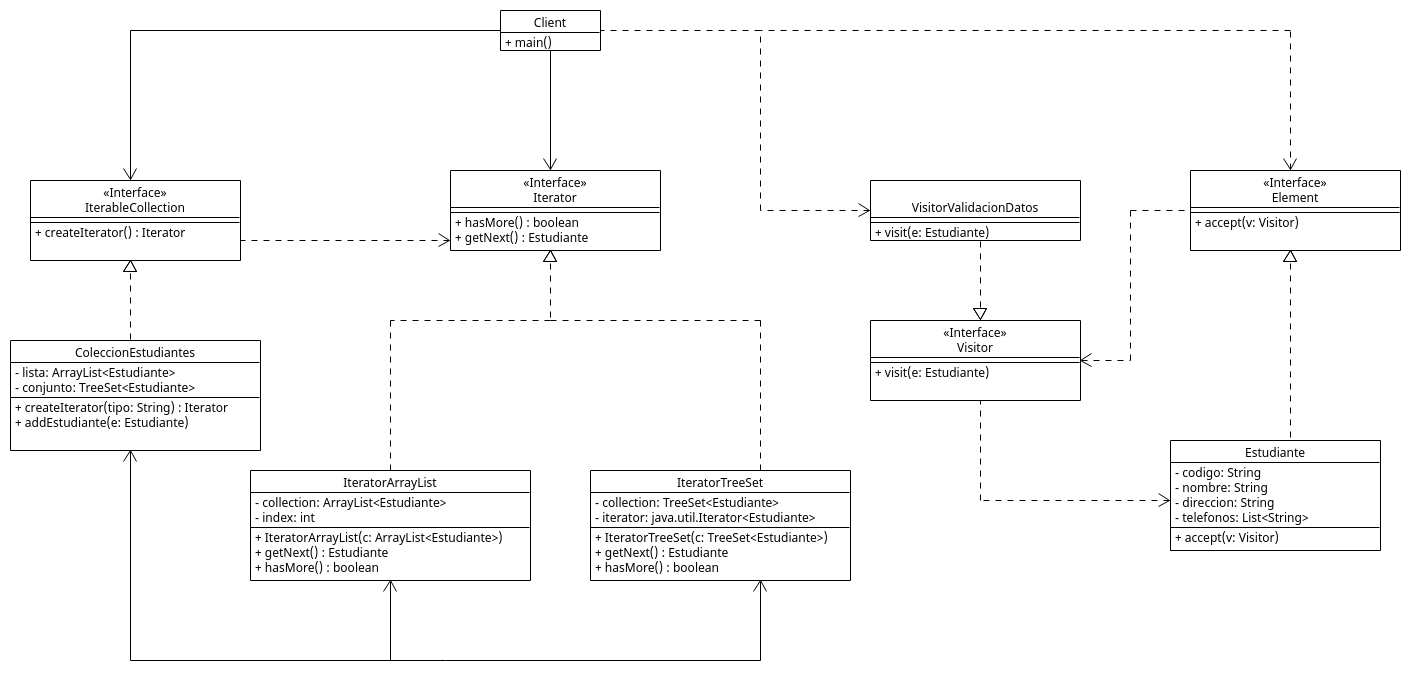
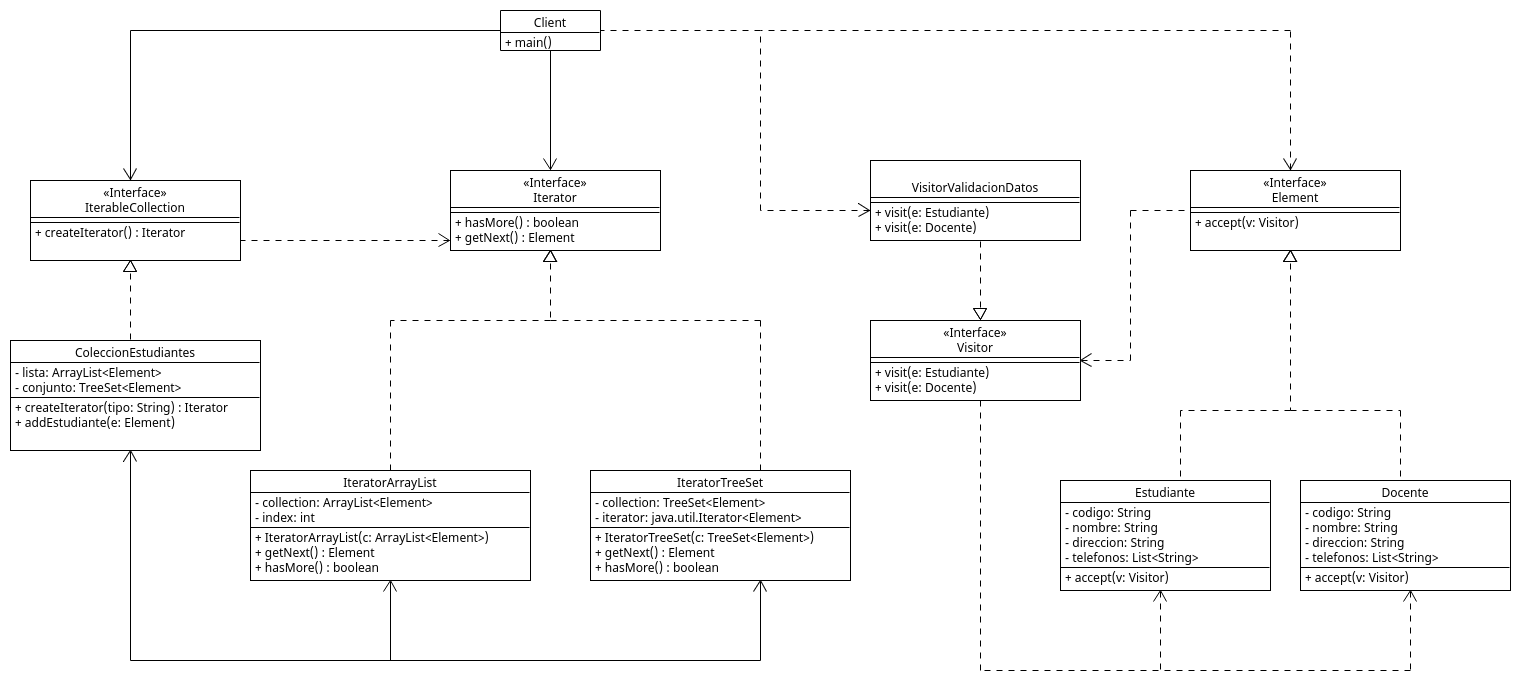
Docente

diff --git a/src/app/Client.java b/src/app/Client.java
@@ -1,6 +1,7 @@
 package app;
 
 import coleccion.ColeccionEstudiantes;
+import dominio.Docente;
 import dominio.Estudiante;
 import iterator.Iterador;
 import visitor.Element;
@@ -15,19 +16,21 @@ public class Client {
         ColeccionEstudiantes coleccion = new ColeccionEstudiantes();
         Visitor validador = new VisitorValidacionDatos();
 
-        // Estudiantes precargados
+        // Estudiantes y docentes precargados
         coleccion.agregarEstudiante(new Estudiante("001", "Carlos Gómez", "Calle 123", Arrays.asList("3001234567")));
-        coleccion.agregarEstudiante(new Estudiante("002", "", "Calle 456", Arrays.asList("3017654321"))); // sin nombre
-        coleccion.agregarEstudiante(new Estudiante("003", "Ana Ruiz", "", Arrays.asList())); // sin dirección ni
-                                                                                             // teléfonos
+        coleccion.agregarEstudiante(new Estudiante("002", "", "Calle 456", Arrays.asList("3017654321")));
+        coleccion.agregarEstudiante(new Estudiante("003", "Ana Ruiz", "", Arrays.asList()));
         coleccion.agregarEstudiante(new Estudiante("004", "Luis Pérez", "Calle 789", Arrays.asList("3101112233")));
+        coleccion.agregarEstudiante(new Docente("5678", "Prof. Ramírez", "Cra 45", Arrays.asList("3129876543")));
+        coleccion.agregarEstudiante(new Docente("12345", "Prof. López", "Calle 789", Arrays.asList("3112223344")));
 
         boolean salir = false;
 
         while (!salir) {
+            System.out.println("\n[✔ Sistema listo: puede registrar y validar estudiantes o docentes]");
             System.out.println("\n--- MENÚ PRINCIPAL ---");
-            System.out.println("1. Ver estudiantes (validar datos)");
-            System.out.println("2. Agregar estudiante");
+            System.out.println("1. Ver estudiantes y docentes (validar datos)");
+            System.out.println("2. Agregar estudiante o docente");
             System.out.println("3. Salir");
             System.out.print("Seleccione una opción: ");
             String opcion = scanner.nextLine().trim();
@@ -42,18 +45,22 @@ public class Client {
                     }
 
                     Iterador iterador = coleccion.createIterator(tipo);
-                    System.out.println("\nRecorriendo estudiantes por tipo: " + tipo.toUpperCase());
+                    System.out.println("\nRecorriendo registros por tipo: " + tipo.toUpperCase());
                     System.out.println("==========================================");
 
                     while (iterador.hasMore()) {
-                        Element estudiante = iterador.getNext();
-                        estudiante.accept(validador);
+                        Element persona = iterador.getNext();
+                        persona.accept(validador);
                         System.out.println("-----");
                     }
                     break;
 
                 case "2":
-                    System.out.println("Ingrese los datos del nuevo estudiante:");
+                    System.out.println("¿Qué desea agregar? (estudiante/docente): ");
+                    String tipoPersona = scanner.nextLine().trim().toLowerCase();
+
+                    System.out.println("Ingrese los datos:");
+
                     System.out.print("Código: ");
                     String codigo = scanner.nextLine();
 
@@ -80,14 +87,24 @@ public class Client {
                         }
                     }
 
-                    // Validación de campos
                     if (codigo.isEmpty() || nombre.isEmpty() || direccion.isEmpty() || telefonos.isEmpty()) {
-                        System.out.println(
-                                "\n**No se puede agregar el estudiante. Todos los campos deben estar completos.**\n");
+                        System.out.println("❌ Todos los campos deben estar completos.");
+                        break;
+                    }
+
+                    if (tipoPersona.equals("estudiante")) {
+                        coleccion.agregarEstudiante(new Estudiante(codigo, nombre, direccion, telefonos));
+                        System.out.println("✅ Estudiante agregado.");
+                    } else if (tipoPersona.equals("docente")) {
+                        if (codigo.length() > 4) {
+                            System.out.println(
+                                    "❌ No se puede registrar el docente. El código debe tener máximo 4 dígitos.");
+                            break;
+                        }
+                        coleccion.agregarEstudiante(new Docente(codigo, nombre, direccion, telefonos));
+                        System.out.println("✅ Docente agregado.");
                     } else {
-                        Estudiante nuevo = new Estudiante(codigo, nombre, direccion, telefonos);
-                        coleccion.agregarEstudiante(nuevo);
-                        System.out.println("\n****Estudiante agregado exitosamente.***\n");
+                        System.out.println("❌ Tipo de persona no reconocido.");
                     }
                     break;
 

diff --git a/src/visitor/VisitorValidacionDatos.java b/src/visitor/VisitorValidacionDatos.java
@@ -1,6 +1,7 @@
 package visitor;
 
 import dominio.Estudiante;
+import dominio.Docente;
 
 public class VisitorValidacionDatos implements Visitor {
 
@@ -27,6 +28,38 @@ public class VisitorValidacionDatos implements Visitor {
 
         if (!datosIncompletos) {
             System.out.println("✅ Estudiante " + estudiante.getNombre() + " tiene sus datos completos.");
+        }
+    }
+
+    @Override
+    public void visit(Docente docente) {
+        boolean datosIncompletos = false;
+
+        if (docente.getCodigo() == null || docente.getCodigo().isEmpty()) {
+            System.out.println("⚠ Docente sin código.");
+            datosIncompletos = true;
+        }
+        if (docente.getNombre() == null || docente.getNombre().isEmpty()) {
+            System.out.println("⚠ Docente sin nombre.");
+            datosIncompletos = true;
+        }
+        if (docente.getDireccion() == null || docente.getDireccion().isEmpty()) {
+            System.out.println("⚠ Docente sin dirección.");
+            datosIncompletos = true;
+        }
+        if (docente.getTelefonos() == null || docente.getTelefonos().isEmpty()) {
+            System.out.println("⚠ Docente sin teléfonos.");
+            datosIncompletos = true;
+        }
+
+        // Validar longitud del código
+        if (docente.getCodigo() != null && docente.getCodigo().length() > 4) {
+            System.out.println("⚠ Código de docente excede 4 dígitos.");
+            datosIncompletos = true;
+        }
+
+        if (!datosIncompletos) {
+            System.out.println("✅ Docente " + docente.getNombre() + " tiene sus datos completos y código válido.");
         }
     }
 }

diff --git a/src/dominio/Docente.java b/src/dominio/Docente.java
@@ -1,0 +1,40 @@
+package dominio;
+
+import java.util.List;
+import visitor.Element;
+import visitor.Visitor;
+
+public class Docente implements Element {
+    private String codigo;
+    private String nombre;
+    private String direccion;
+    private List<String> telefonos;
+
+    public Docente(String codigo, String nombre, String direccion, List<String> telefonos) {
+        this.codigo = codigo;
+        this.nombre = nombre;
+        this.direccion = direccion;
+        this.telefonos = telefonos;
+    }
+
+    public String getCodigo() {
+        return codigo;
+    }
+
+    public String getNombre() {
+        return nombre;
+    }
+
+    public String getDireccion() {
+        return direccion;
+    }
+
+    public List<String> getTelefonos() {
+        return telefonos;
+    }
+
+    @Override
+    public void accept(Visitor visitor) {
+        visitor.visit(this);
+    }
+}

diff --git a/src/visitor/Visitor.java b/src/visitor/Visitor.java
@@ -1,7 +1,9 @@
 package visitor;
 
 import dominio.Estudiante;
+import dominio.Docente;
 
 public interface Visitor {
     void visit(Estudiante estudiante);
+    void visit(Docente docente);
 }
